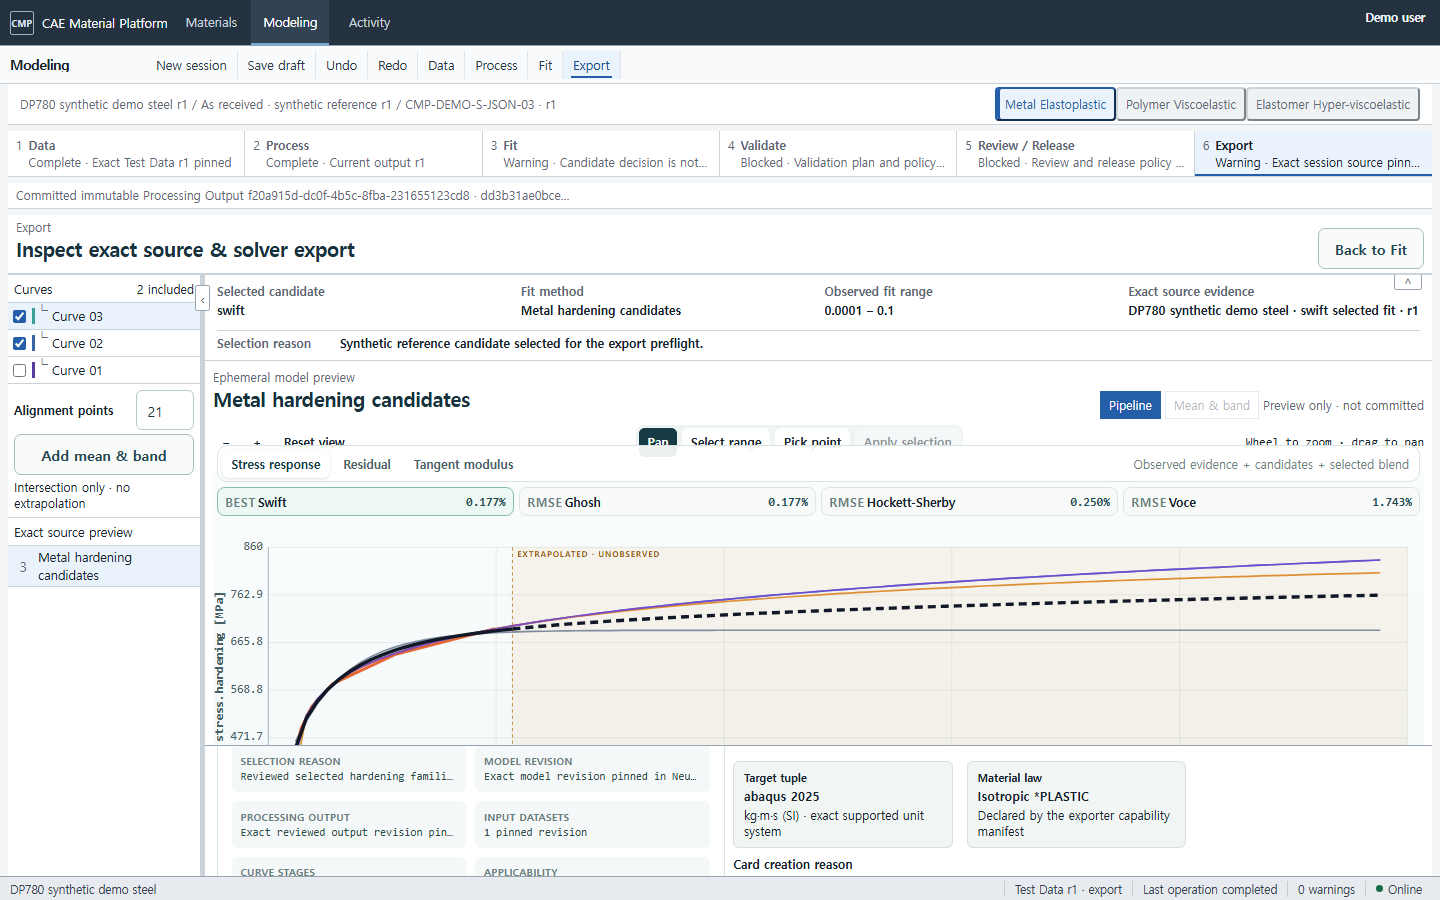
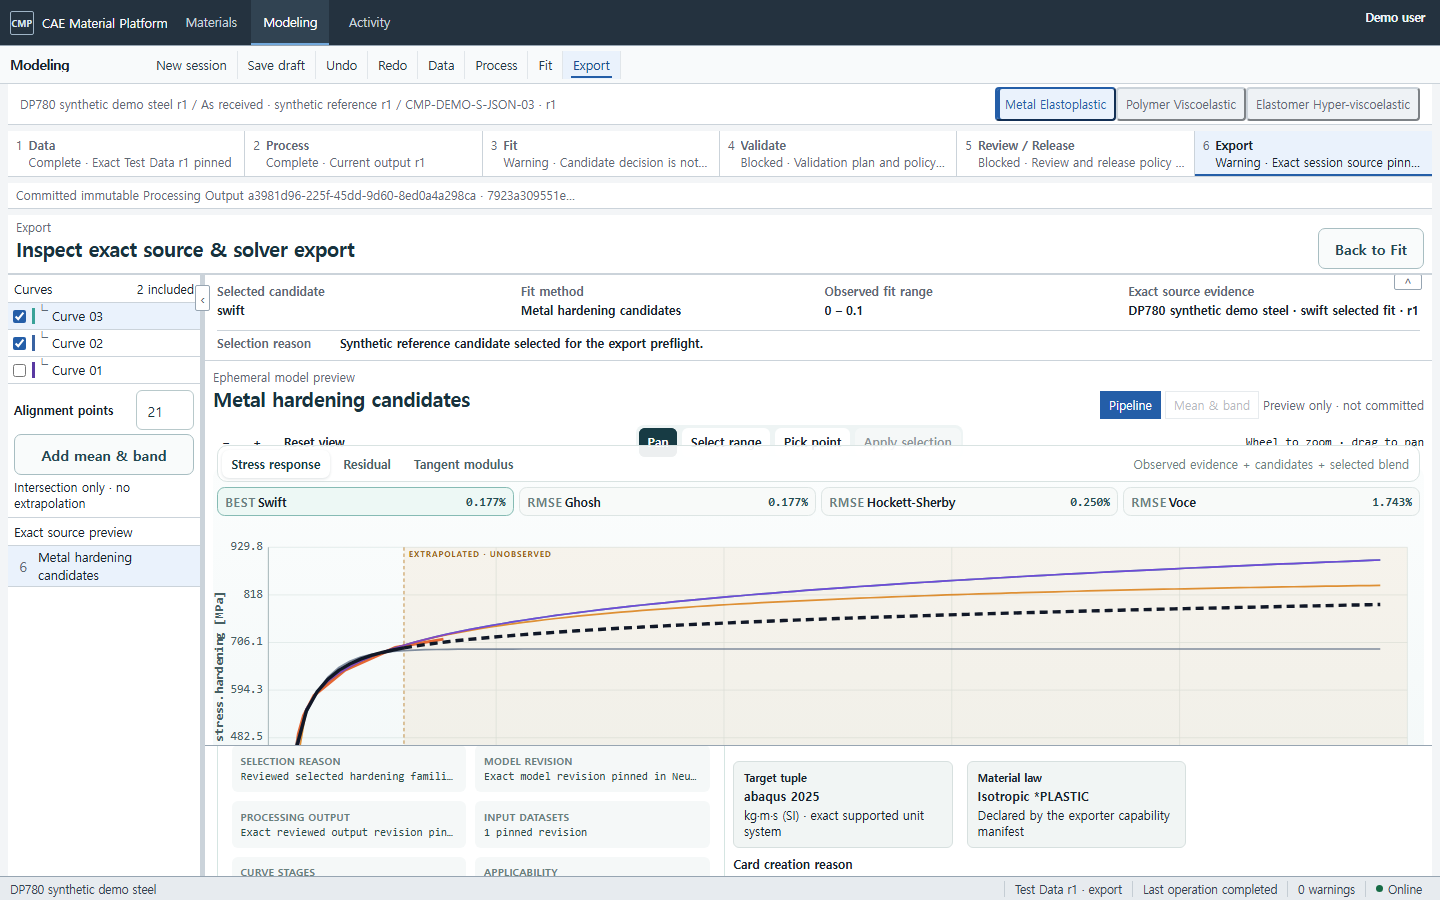
fix(UXC-02): preserve promoted exact model selection

diff --git a/apps/web/src/reference-elastoplastic-workbench.tsx b/apps/web/src/reference-elastoplastic-workbench.tsx
@@ -1,4 +1,4 @@
-import { useCallback, useEffect, useMemo, useState } from "react";
+import { useCallback, useEffect, useMemo, useRef, useState } from "react";
 
 import {
   ApiError,
@@ -197,6 +197,7 @@ export function ReferenceElastoplasticWorkbench({
   const [preview, setPreview] = useState<string | null>(null);
   const [previewCardId, setPreviewCardId] = useState<string | null>(null);
   const [neutralMaterial, setNeutralMaterial] = useState<NeutralMaterialResponse | null>(null);
+  const preferredProcessingOutputRef = useRef(preferredProcessingOutputId);
   const [switchingProcessingOutput, setSwitchingProcessingOutput] = useState(false);
   const [loading, setLoading] = useState(false);
   const [action, setAction] = useState<"model" | "neutral" | "preflight" | "card" | "download" | null>(null);
@@ -231,7 +232,13 @@ export function ReferenceElastoplasticWorkbench({
       ]);
       setDatasets(datasetResult.data.items);
       setProcessingOutputs(outputResult.data.items);
-      setModels(modelResult.data.items);
+      setModels((current) => {
+        const incomingIds = new Set(modelResult.data.items.map((model) => model.material_model_id));
+        return [
+          ...current.filter((model) => !incomingIds.has(model.material_model_id)),
+          ...modelResult.data.items,
+        ];
+      });
       const eligible = datasetResult.data.items.filter((dataset) =>
         ["normalized", "processed"].includes(dataset.current_revision.content.representation),
       );
@@ -255,7 +262,8 @@ export function ReferenceElastoplasticWorkbench({
       );
       setSelectedModelId(
         (current) => preferredModel?.material_model_id
-          || (preferredOutput ? "" : current || modelResult.data.items[0]?.material_model_id || ""),
+          || current
+          || (preferredOutput ? "" : modelResult.data.items[0]?.material_model_id || ""),
       );
     } catch (cause) {
       setError(messageFor(cause));
@@ -269,6 +277,20 @@ export function ReferenceElastoplasticWorkbench({
       void refresh();
     }
   }, [open, refresh]);
+
+  useEffect(() => {
+    if (preferredProcessingOutputRef.current === preferredProcessingOutputId) return;
+    preferredProcessingOutputRef.current = preferredProcessingOutputId;
+    setSelectedProcessingOutputId(preferredProcessingOutputId ?? "");
+    setSelectedModelId((current) => {
+      const selected = models.find((model) => model.material_model_id === current);
+      return selected?.current_revision.content.processing_projection?.output_id
+        === preferredProcessingOutputId
+        ? current
+        : "";
+    });
+    setNeutralMaterial(null);
+  }, [models, preferredProcessingOutputId]);
 
   useEffect(() => {
     setNeutralMaterial(null);

diff --git a/apps/web/src/reference-elastoplastic-workbench.test.tsx b/apps/web/src/reference-elastoplastic-workbench.test.tsx
@@ -442,7 +442,7 @@ describe("Reference elastoplastic workbench", () => {
     });
     vi.stubGlobal("fetch", fetchMock);
 
-    render(
+    const view = render(
       <ReferenceElastoplasticWorkbench
         config={{ baseUrl: "/api/v1", accessToken: "tenant-token" }}
         state={state}
@@ -460,6 +460,22 @@ describe("Reference elastoplastic workbench", () => {
     expect(
       await screen.findByText("Origin: selected fitted hardening Processing Output"),
     ).toBeTruthy();
+    view.rerender(
+      <ReferenceElastoplasticWorkbench
+        config={{ baseUrl: "/api/v1", accessToken: "tenant-token" }}
+        state={state}
+        propertySet={propertySet}
+        preferredProcessingOutputId={outputId}
+      />,
+    );
+    await waitFor(() => {
+      const modelListCalls = fetchMock.mock.calls.filter(([url, init]) =>
+        String(url).endsWith(`/material-states/${stateId}/tabulated-plasticity-models`)
+        && (init?.method ?? "GET") === "GET",
+      );
+      expect(modelListCalls.length).toBeGreaterThanOrEqual(2);
+      expect(screen.getByText("Origin: selected fitted hardening Processing Output")).toBeTruthy();
+    });
     expect(await screen.findByText(/Published Recipe revision:/)).toBeTruthy();
     expect(await screen.findByText(/Successful Batch attempt #1/)).toBeTruthy();
     expect(

diff --git a/scripts/capture_current_product.py b/scripts/capture_current_product.py
@@ -343,13 +343,15 @@ def _capture_modeling(browser: Browser, base_url: str, output: Path) -> None:
                     ".modeling-workspace-dock .neutral-solver-export"
                 )
                 if not neutral_export.count():
-                    promotion_acknowledgement = page.get_by_text(
-                        re.compile(
-                            r"I reviewed the candidate blend and acknowledge its bounded fitted extrapolation"
-                        )
+                    promotion_acknowledgement = page.get_by_role(
+                        "checkbox",
+                        name=re.compile(
+                            r"reviewed the candidate blend and acknowledge its bounded fitted extrapolation",
+                            re.IGNORECASE,
+                        ),
                     )
                     promotion_acknowledgement.wait_for(timeout=30_000)
-                    promotion_acknowledgement.click()
+                    promotion_acknowledgement.check()
                     page.get_by_role(
                         "button", name="Promote fitted output to IR", exact=True
                     ).click()
